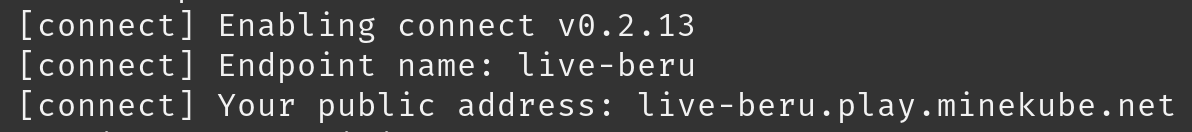
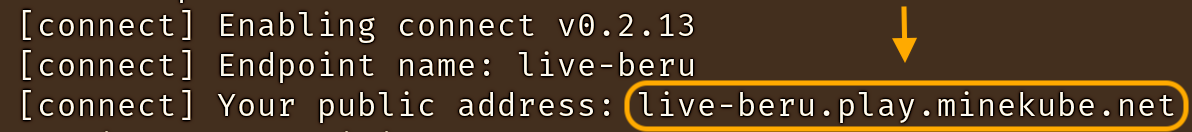
docs: Visually point to Connect endpoint domain is written to the console; Link quick start button to correct page

diff --git a/.web/docs/guide/includes/joining.md b/.web/docs/guide/includes/joining.md
@@ -21,7 +21,18 @@ After installing Connect plugin and starting your server
 you will see the [free public domain](/guide/domains) for your server that looks like
 `<endpoint>.play.minekube.net`.
 
+::: code-group
+```shell [Server Console]
+[connect] Enabling connect vX.Y.Z
+[connect] Enpoint name: live-beru
+[connect] Your public address: live-beru.play.minekube.net
+```
+:::
+
+Use your domain to join your server.
+
 ![Console showing public domain](/images/terminal-log.png)
+
 
 Ping requests are also mirrored to the endpoint server.
 

diff --git a/.web/docs/guide/includes/downloads.md b/.web/docs/guide/includes/downloads.md
@@ -11,6 +11,9 @@ you can download the Connect plugin right here, instead of SpigotMC.
 Ready to experience Minekube Connect? Download the latest stable release for your platform!
 :point_up_2:
 
+![Console showing public domain](/images/terminal-log.png)
+
+
 [_What does the Connect Plugin do?_](/guide/#the-connect-plugin)
 
 ## Disabling "enforce secure player profiles" <VPBadge type='danger'>Required</VPBadge>

diff --git a/.web/docs/guide/quick-start.md b/.web/docs/guide/quick-start.md
@@ -4,7 +4,6 @@ _This page explains where to download and how to configure the Connect plugin to
 server on the [Connect Network](/guide/#the-connect-network) and allow players to join your server.
 It's easy!_
 
-
 :::: tip Prerequisites 
 - You have a Minecraft server running anywhere (locally or remote).
 - You have a Minecraft client for joining (paid or non-paid).

diff --git a/.web/docs/index.md b/.web/docs/index.md
@@ -14,7 +14,7 @@ hero:
   actions:
     - theme: brand
       text: Quick Start
-      link: /guide/
+      link: /guide/quick-start
     - theme: alt
       text: Downloads
       link: /guide/downloads
